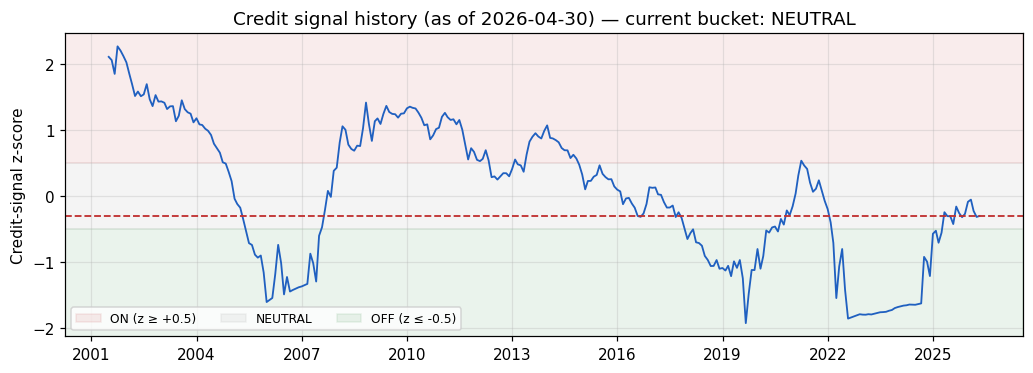
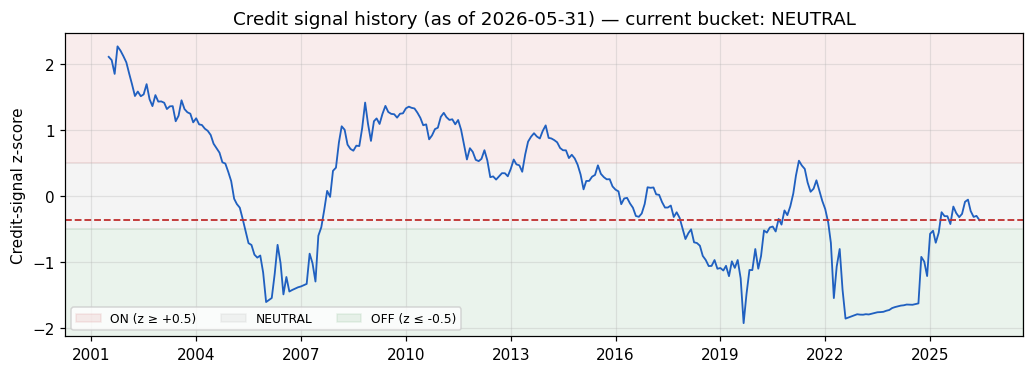
Monthly refresh 2026-06-01

diff --git a/docs/index.html b/docs/index.html
@@ -1,6 +1,6 @@
 <!doctype html>
 <html><head><meta charset="utf-8">
-<title>PP + GEP Credit Overlay — 2026-04-30</title>
+<title>PP + GEP Credit Overlay — 2026-05-31</title>
 <style>
 body{font-family:-apple-system,BlinkMacSystemFont,Helvetica,Arial,sans-serif;
      max-width:1100px;margin:20px auto;padding:0 20px;color:#222;line-height:1.45}
@@ -22,12 +22,12 @@ img{max-width:100%;height:auto;margin:10px 0}
 <h1>Barbell Permanent Portfolio + GEP Credit Overlay</h1>
 <div style="color:#666;font-size:12px">Base: 25 SPY / 10 TLT / 15 SHY / 25 GLD / 25 TIP &nbsp;·&nbsp;
 HYG tactical tilt from TIP</div>
-<div class="num">As of <b>2026-04-30</b> &nbsp;·&nbsp; generated 2026-05-01 14:55</div>
+<div class="num">As of <b>2026-05-31</b> &nbsp;·&nbsp; generated 2026-06-01 19:20</div>
 
 <div class="banner bucket-neutral">
 <b>Current signal: NEUTRAL</b> &nbsp;·&nbsp;
-credit-signal z = <b>-0.30</b>
-(raw signal 0.7289; HYG 6M vol 0.0078; 10y-2y +0.52%)
+credit-signal z = <b>-0.37</b>
+(raw signal 0.6941; HYG 6M vol 0.0086; 10y-2y +0.47%)
 <br>
 Rule: z ≥ +0.5 → ON (HYG 15% from TIP);
 −0.5 &lt; z &lt; +0.5 → NEUTRAL (HYG 7.5% / TIP 17.5%);
@@ -83,21 +83,21 @@ returns higher.</li>
 <table class="num">
 <tr><th>Component</th><th>Current value</th></tr>
 <tr><td>HYG monthly return std (trailing 6 months), <code>vol_6m</code></td>
-    <td>0.0078</td></tr>
+    <td>0.0086</td></tr>
 <tr><td>T10Y2Y term spread (FRED, month-end)</td>
-    <td>+0.52% pts</td></tr>
+    <td>+0.47% pts</td></tr>
 <tr><td>max(T10Y2Y, 0)</td>
-    <td>0.5200</td></tr>
+    <td>0.4700</td></tr>
 <tr><td>sqrt of the above</td>
-    <td>0.7211</td></tr>
+    <td>0.6856</td></tr>
 <tr><td><b>Raw signal = vol_6m + sqrt(…)</b></td>
-    <td><b>0.7289</b></td></tr>
+    <td><b>0.6941</b></td></tr>
 <tr><td>Expanding-window mean μ (all months since 2008)</td>
-    <td>0.8929</td></tr>
+    <td>0.8923</td></tr>
 <tr><td>Expanding-window stdev σ</td>
-    <td>0.5389</td></tr>
+    <td>0.5382</td></tr>
 <tr><td><b>z = (raw − μ) / σ</b></td>
-    <td><b>-0.30</b></td></tr>
+    <td><b>-0.37</b></td></tr>
 <tr><td>Bucket rule</td><td>z ≥ +0.5 → ON (15 HYG / 10 TIP); −0.5 < z < +0.5 → NEUTRAL (7.5/17.5); z ≤ −0.5 → OFF (0/25)</td></tr>
 <tr><td><b>Current bucket</b></td><td><b>NEUTRAL</b></td></tr>
 </table>
